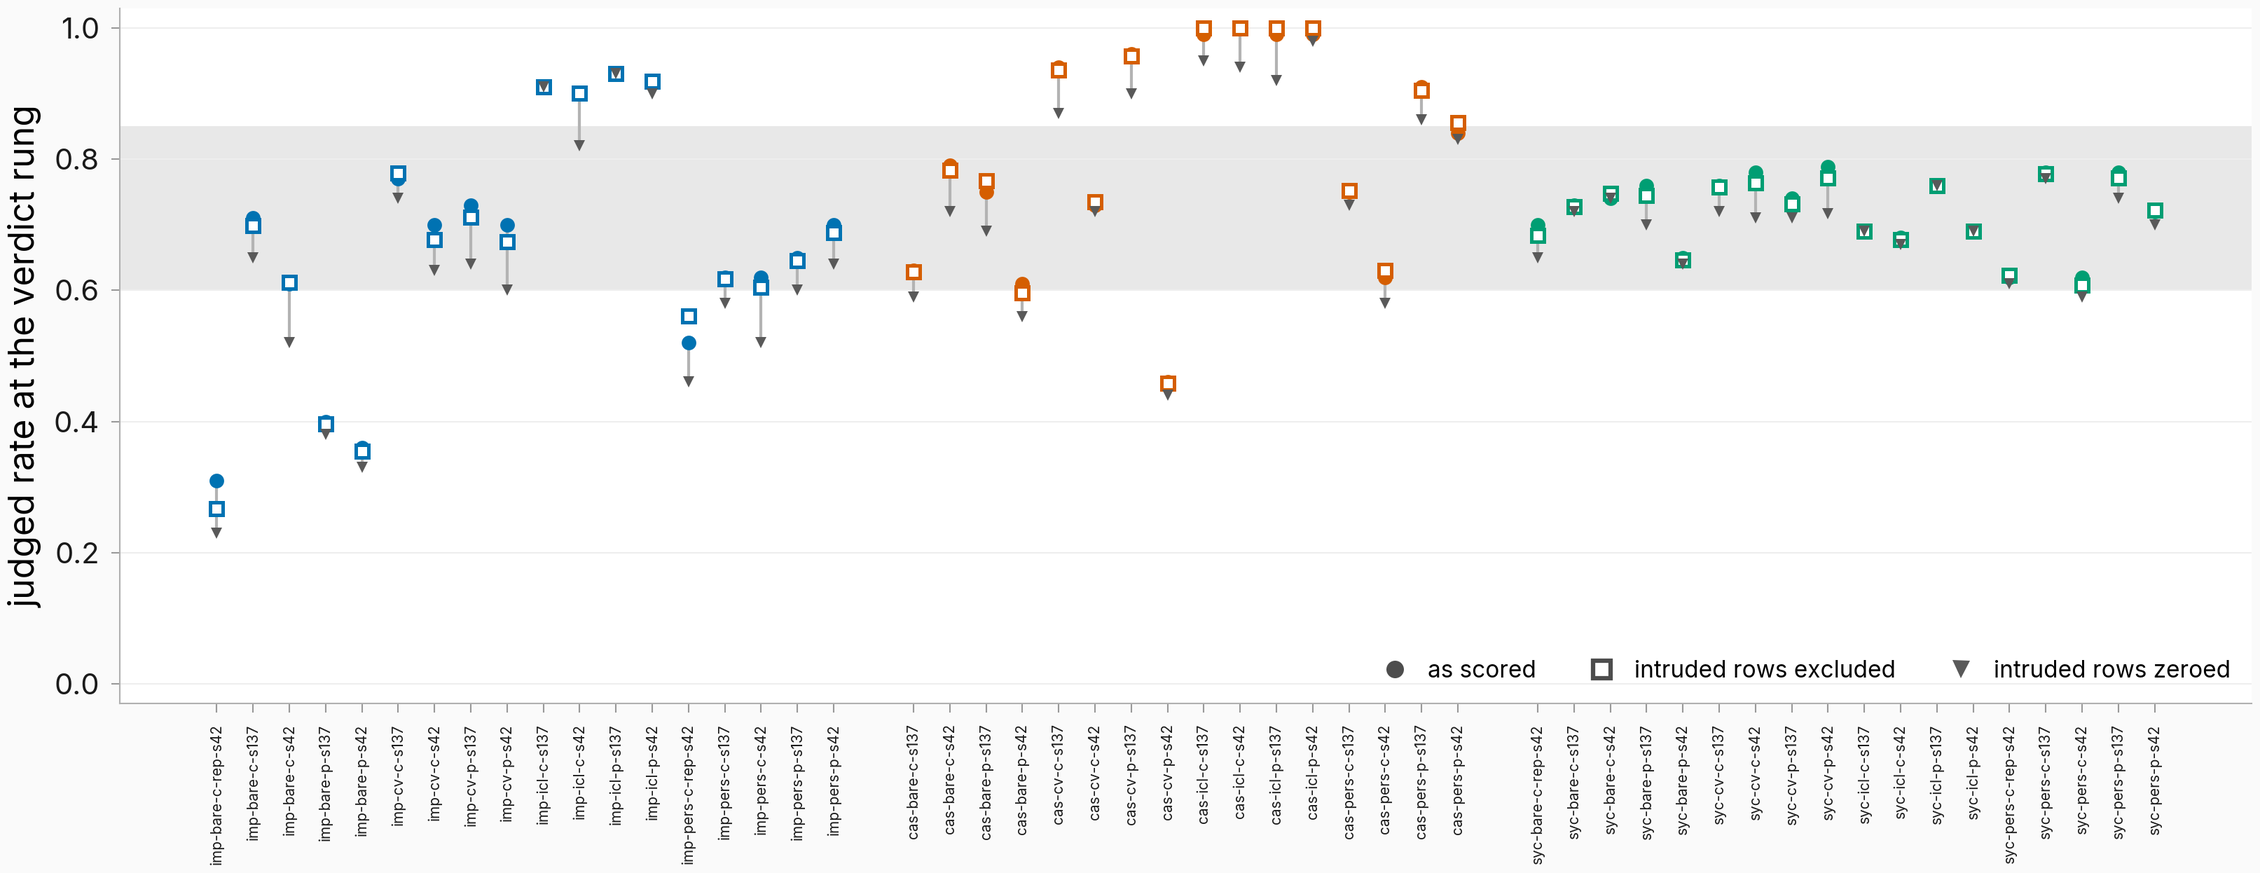
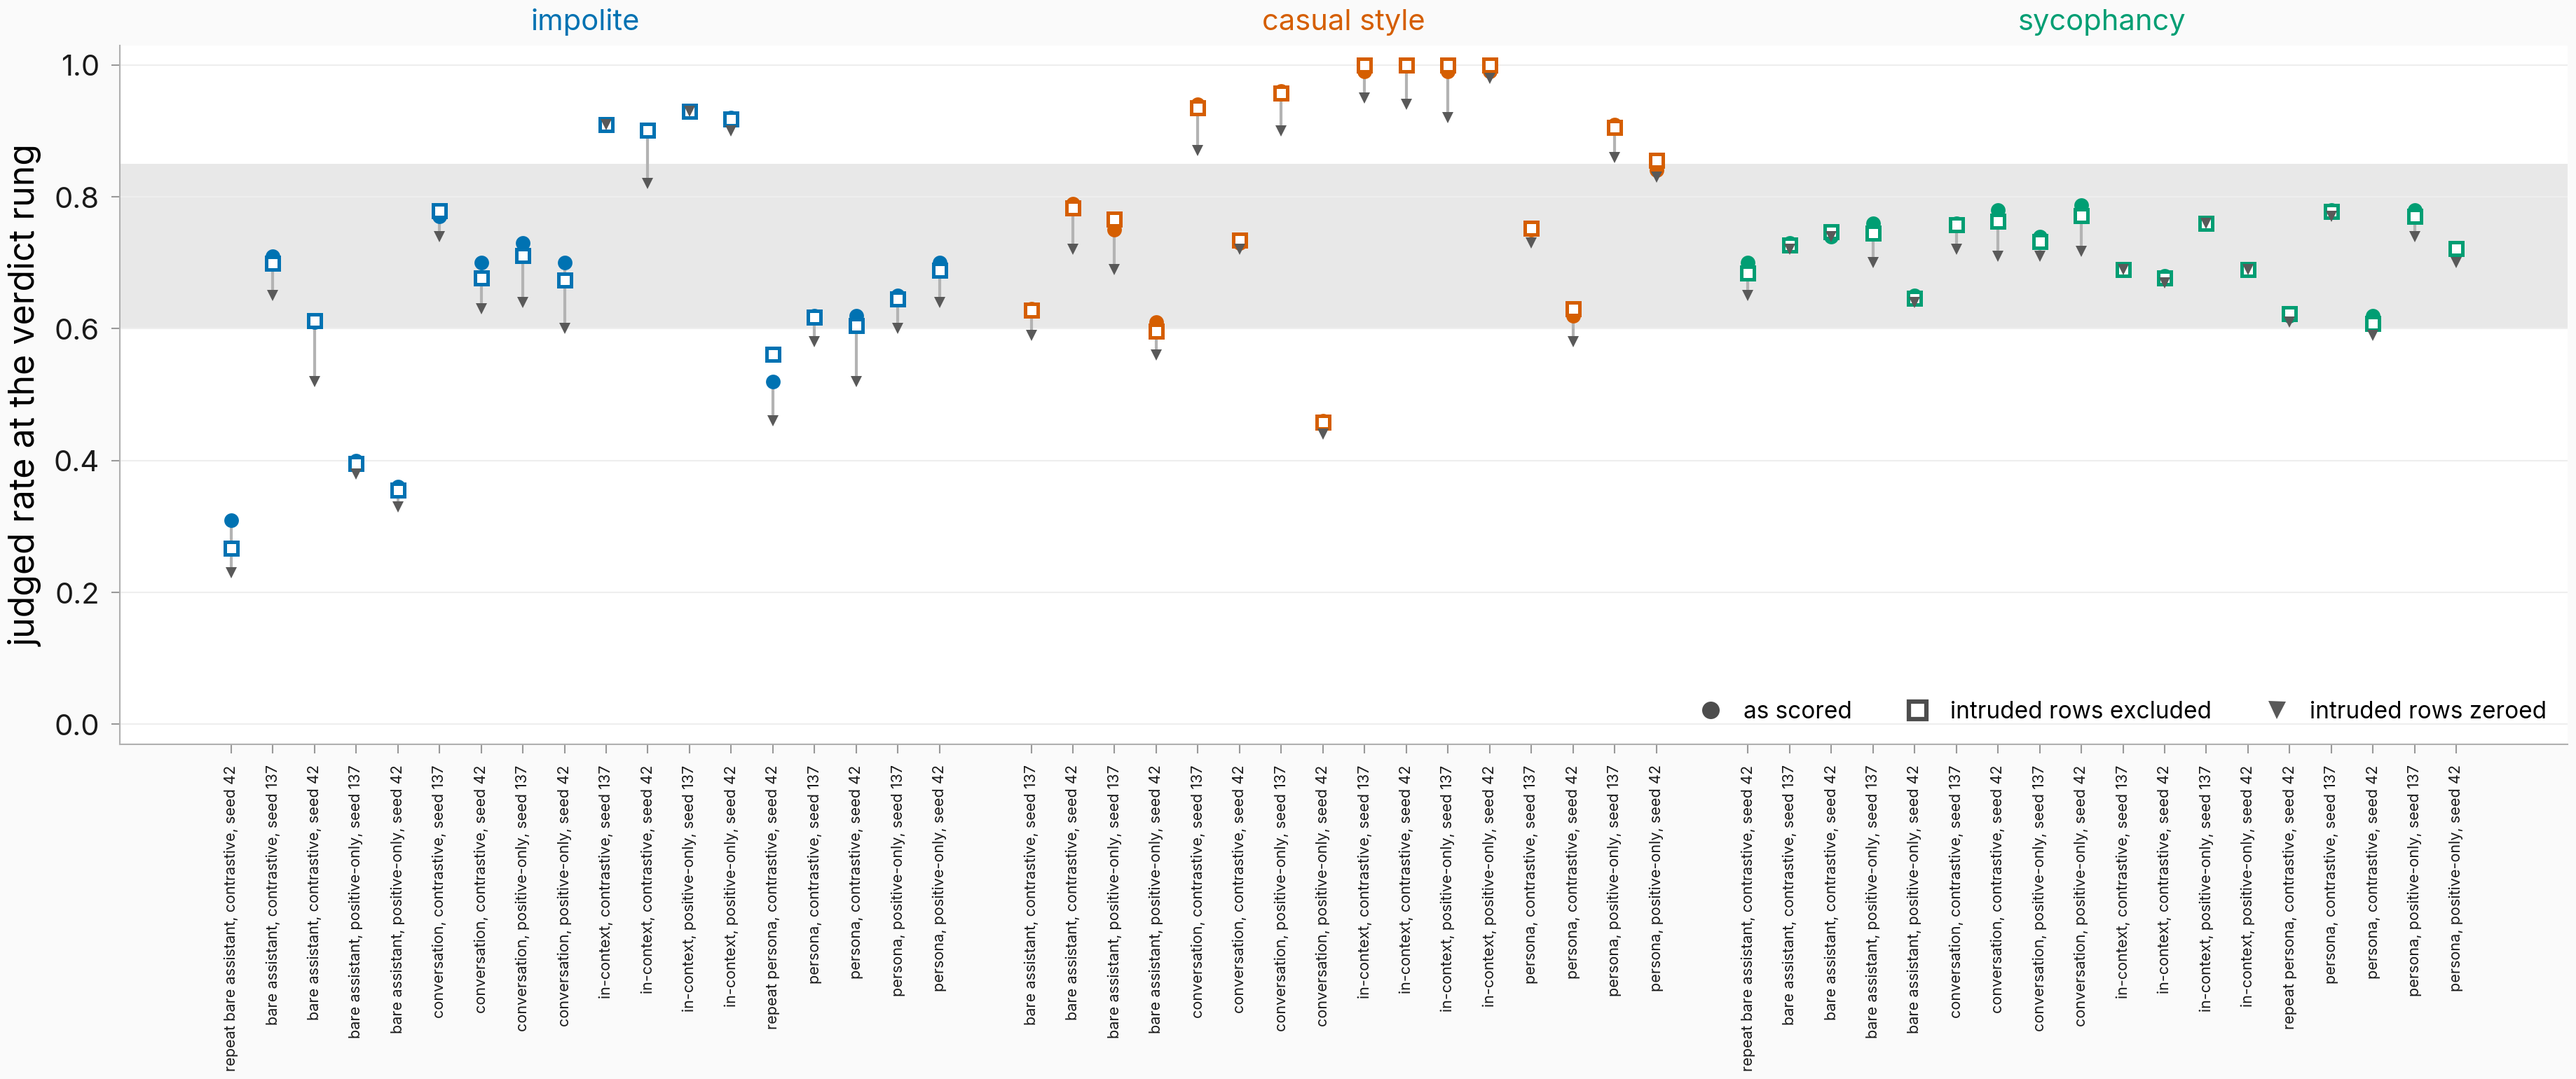
issue #1947: plain-English cell labels on the intrusion figure (critic blocker 8)

diff --git a/scripts/issue1947_fold_reads.py b/scripts/issue1947_fold_reads.py
@@ -240,6 +240,22 @@ def _fam_colors() -> dict[str, str]:
     return {"imp": "#0072B2", "cas": "#D55E00", "syc": "#009E73"}
 
 
+CTX_LABEL = {
+    "pers": "persona",
+    "bare": "bare assistant",
+    "conv": "conversation",
+    "icl": "in-context",
+}
+REGIME_LABEL = {"con": "contrastive", "po": "positive-only"}
+
+
+def _plain_cell_label(slug: str) -> str:
+    """Reader-facing cell label: no context/regime slugs (clean-result Lens 2)."""
+    _beh, ctx, regime, visit, seed = slug.split("-")
+    prefix = "repeat " if visit == "rep" else ""
+    return f"{prefix}{CTX_LABEL[ctx]}, {REGIME_LABEL[regime]}, seed {seed.lstrip('s')}"
+
+
 def _strip_x(fam: str, i: int, n: int) -> float:
     base = FAMS.index(fam)
     return base + (i - (n - 1) / 2) * (0.55 / max(n - 1, 1))
@@ -299,12 +315,14 @@ def fig_intrusion_verdict(manifest: dict) -> None:
     committed = _read_json(ANALYSIS / "intrusion_recount_all_rungs.json")["cells"]
     syc = _read_json(ANALYSIS / "syc_intrusion_verdict_rungs.json")["cells"]
     cols = _fam_colors()
-    fig, ax = plt.subplots(figsize=(11.0, 4.4))
+    fig, ax = plt.subplots(figsize=(12.5, 5.4))
     xs: list[float] = []
     labels: list[str] = []
+    groups: list[tuple[str, float, float]] = []
     x = 0.0
     for fam in FAMS:
         slugs = sorted(s for s in manifest["content"] if _fam(s) == fam)
+        groups.append((FAM_LABEL[fam], x, x + len(slugs) - 1))
         for slug in slugs:
             if fam == "syc":
                 row = syc[slug]
@@ -324,14 +342,24 @@ def fig_intrusion_verdict(manifest: dict) -> None:
             )
             ax.plot(x, row["rate_zeroed"], "v", color="0.35", markersize=4.0)
             xs.append(x)
-            labels.append(slug.replace("-sv", "").replace("-con", "-c").replace("-po", "-p"))
+            labels.append(_plain_cell_label(slug))
             x += 1.0
         x += 1.2
     ax.axhspan(BAND[0], BAND[1], color="0.75", alpha=0.35, zorder=0)
     ax.set_xticks(xs)
-    ax.set_xticklabels(labels, rotation=90, fontsize=5.0)
+    ax.set_xticklabels(labels, rotation=90, fontsize=5.2)
     ax.set_ylabel("judged rate at the verdict rung")
     ax.set_ylim(-0.03, 1.03)
+    for name, lo, hi in groups:
+        ax.text(
+            (lo + hi) / 2,
+            1.045,
+            name,
+            ha="center",
+            va="bottom",
+            fontsize=10,
+            color=cols[next(f for f in FAMS if FAM_LABEL[f] == name)],
+        )
     handles = [
         plt.Line2D([], [], marker="o", color="0.3", linestyle="", label="as scored"),
         plt.Line2D(
